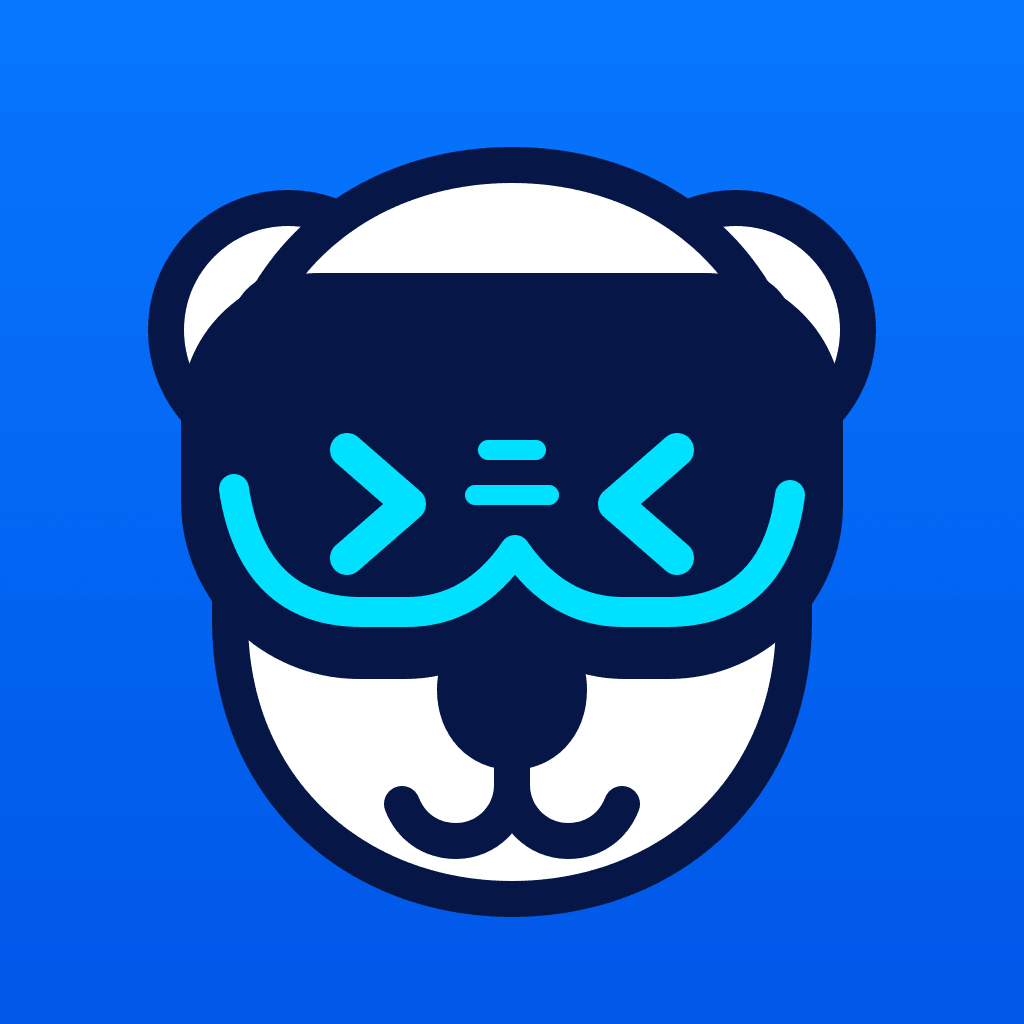
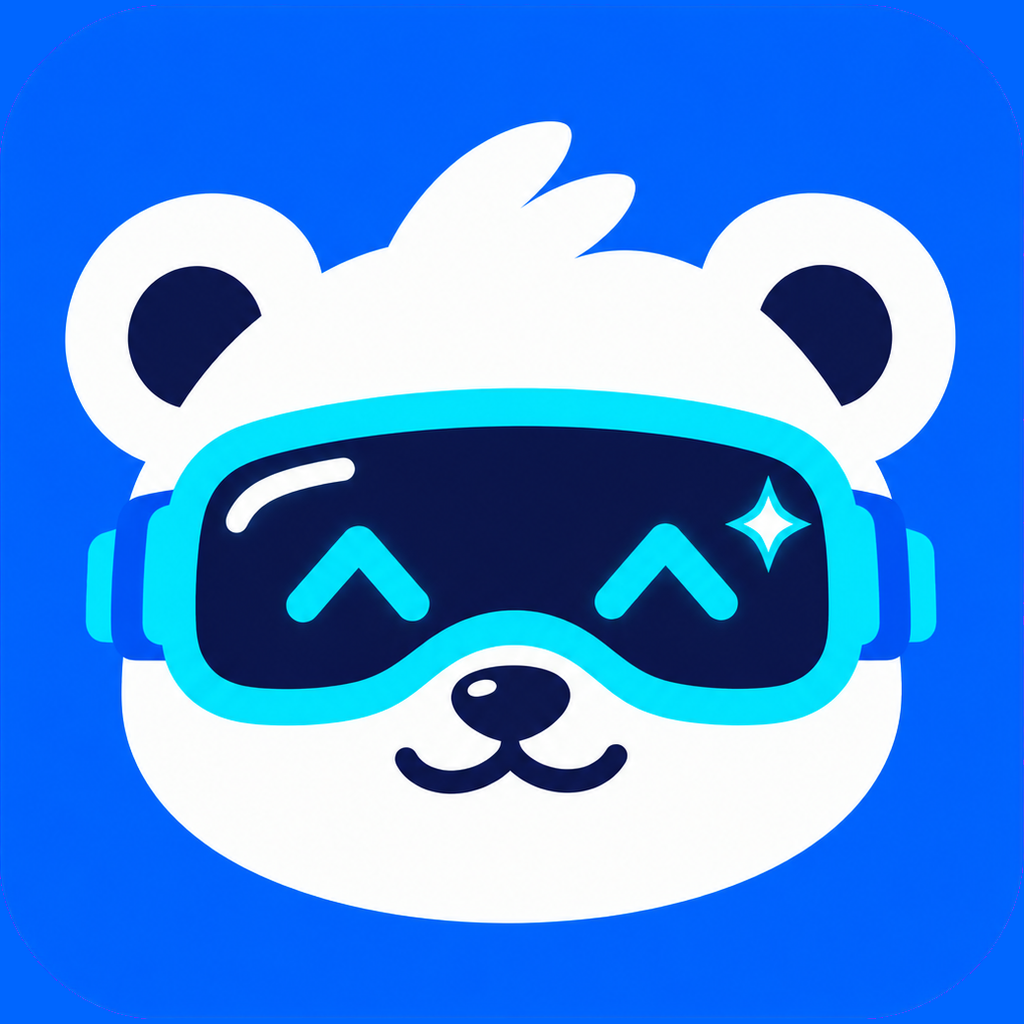
feat(brand): ドヤAIのロゴの記号（案A 青い角丸）とアプリのアイコンを新しくする

diff --git a/docs/design/images/brand/PROMPTS.md b/docs/design/images/brand/PROMPTS.md
@@ -1,0 +1,15 @@
+# ドヤAI ロゴの記号（2026-10-24）
+
+ユーザーが4案から「案A 青い角丸」を選んだ。
+
+- 作り方: Codex の定額の画像生成（gpt-5.6-sol、ChatGPT ログイン）。従量の API は使っていない。
+- マゼンタの背景で作り、sharp で透過にした。「ドヤAI」の文字は画像に描かず、フォントで組む。
+- 参考の絵: ドヤくんの見本（bear-hero.png・icon-sample.png・expressions.png）
+- 4案の比較: logo-candidates-2026-10-24.png
+- 書き出し: public/brand/doya-logo-mark-{64,128,256,512}.{png,webp}（透過）、public/icon-{192,512,1024}.png と public/brand/apple-icon-180.png・favicon-48.png（青い地に敷いたもの）
+
+## 案Aのプロンプト
+
+```
+Use your built-in image generation tool (not any API key, not a script) to generate ONE 1:1 square image and save it as raw/logo-a.png. Design A, "refined flat app icon": a rounded-square tile filled with #0066ff (the tile itself sits on the magenta background), with the bear head in white and navy flat vector style, goggles with confident smug "doya" eye lights (a cyan ^ ^ with a small sparkle), a tiny proud smile. Premium, like a top App Store icon. on a perfectly flat solid pure magenta #ff00ff background (no shadow, no gradient in the background; it will be keyed out). It is a LOGO MARK for the Japanese AI SaaS brand "ドヤAI", based on the polar bear mascot Doya-kun in the attached references (white bear, blue visor goggles with #0066ff frame, cyan #00e0ff rim, dark navy #0a1446 lens, cyan glowing eye lights inside the lens). It will be shown as small as 28x28 pixels in a web header and as 512px app icon, so: bold simple shapes, strong silhouette, perfectly symmetric, crisp vector-like edges, no tiny details, no thin lines, no texture, no gradients except one subtle highlight. Brand colors only: #0066ff blue, #00e0ff cyan, #0a1446 navy, white. Centered, the mark fills about 80% of the square canvas. ABSOLUTELY NO text, letters, numerals or watermarks.
+```
